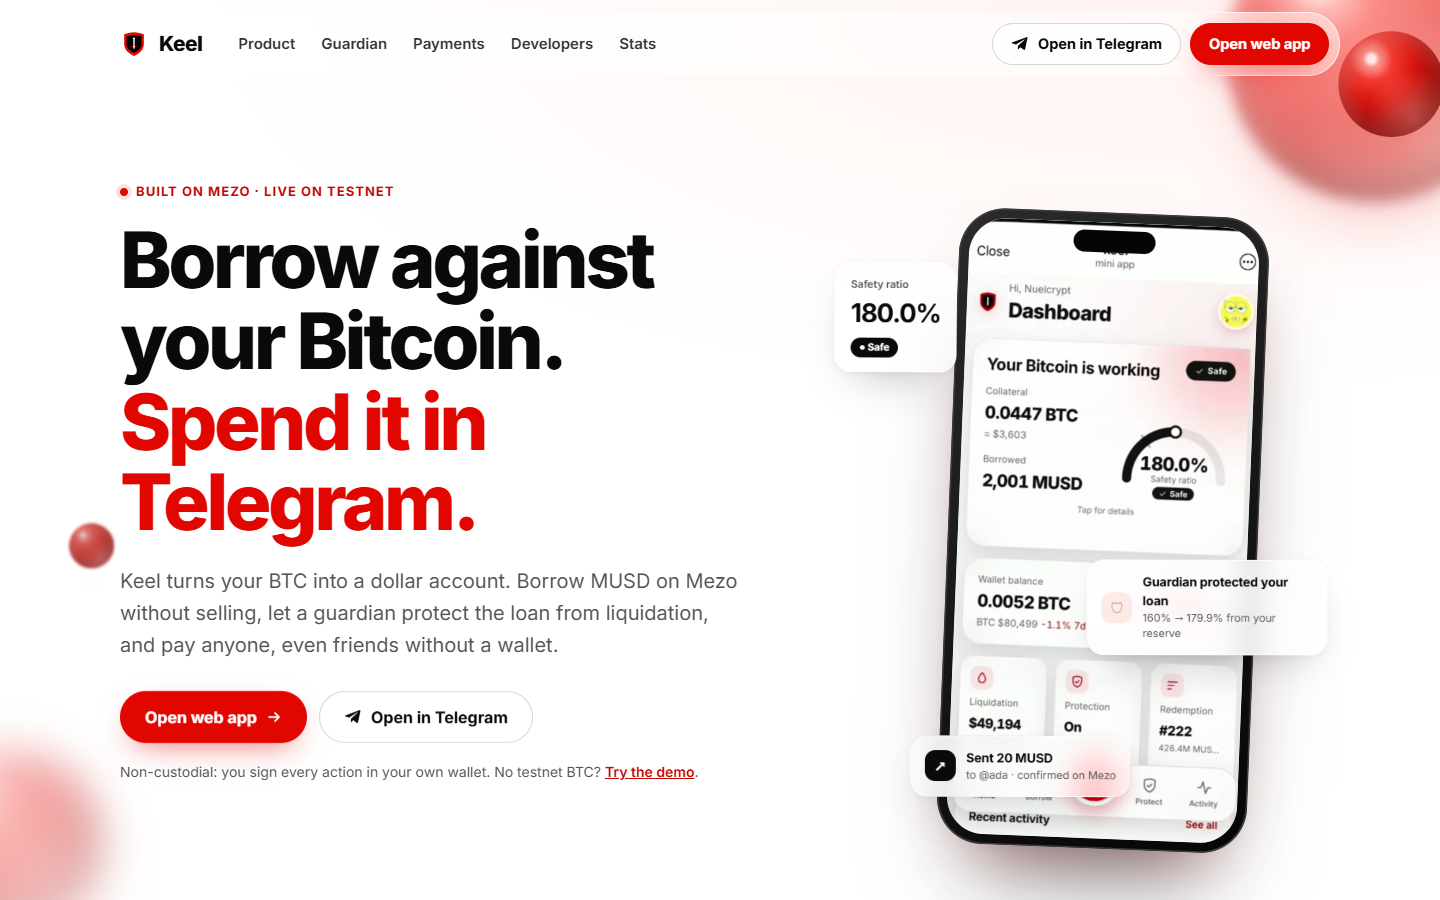
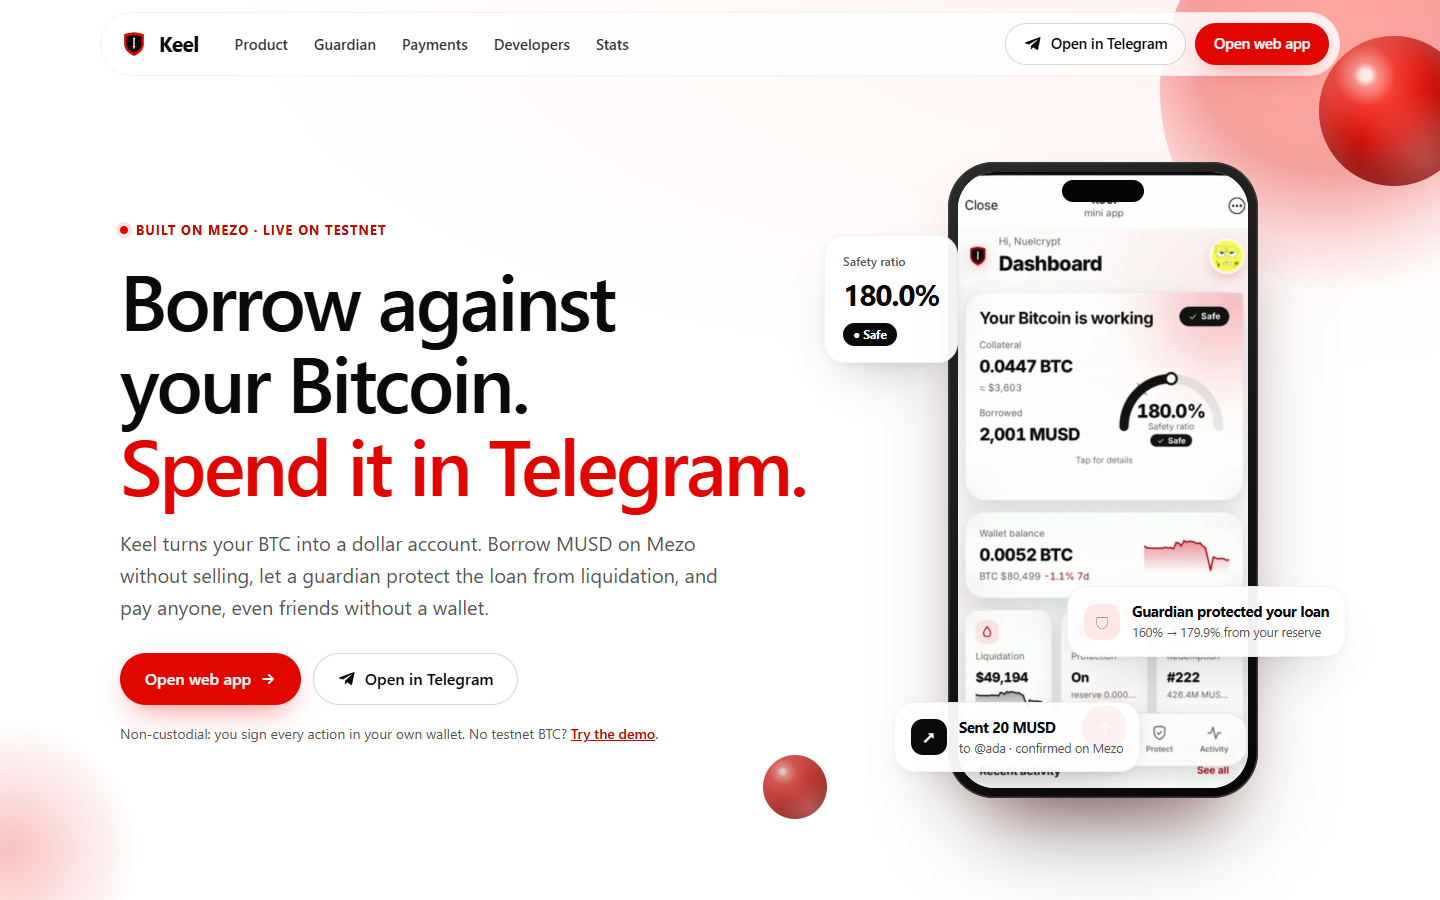
Landing: content-visibility for below-the-fold sections (scroll triggers re-measure as sections render); Onest credit in NOTICE

diff --git a/miniapp/src/landing/landing.css b/miniapp/src/landing/landing.css
@@ -326,6 +326,12 @@
 .built { display: inline-flex; align-items: center; gap: 8px; color: #fff; font-weight: 600; }
 .built img { border-radius: 5px; }
 
+/* ---------------------------------------------------------------- render only what's near the viewport
+   Below-the-fold sections skip style, layout and paint until they approach the screen (a large saving on phones).
+   "auto" remembers each section's real size once it has rendered; motion.ts re-measures scroll triggers when
+   sizes change. The pinned Guardian scene and the expanding card are left out on purpose. */
+.features, .payments, .mezo, .stats, .rail-sec, .cta, .foot { content-visibility: auto; contain-intrinsic-size: auto 900px; }
+
 /* ---------------------------------------------------------------- hero entrance: CSS, so it plays from the first paint */
 @keyframes lp-rise { from { opacity: 0; transform: translate3d(0, 34px, 0); } }
 /* the headline and lead stay visible from the first paint (they are the largest content); they only glide in */

diff --git a/miniapp/src/landing/motion.ts b/miniapp/src/landing/motion.ts
@@ -158,8 +158,22 @@ export function initMotion(root: HTMLElement): () => void {
     })
   }
 
-  // images and fonts change heights: re-measure pinned and scrubbed sections once they're in
+  // images, fonts and content-visibility (sections render as they approach) change heights: re-measure
+  // pinned and scrubbed sections whenever the page's height settles on a new value
   const refresh = () => ScrollTrigger.refresh()
+  let lastH = root.scrollHeight
+  let rt: ReturnType<typeof setTimeout> | undefined
+  const ro = new ResizeObserver(() => {
+    if (Math.abs(root.scrollHeight - lastH) < 4) return
+    lastH = root.scrollHeight
+    clearTimeout(rt)
+    rt = setTimeout(refresh, 250)
+  })
+  ro.observe(root)
+  off.push(() => {
+    ro.disconnect()
+    clearTimeout(rt)
+  })
   on(window, "load", refresh)
   void document.fonts?.ready.then(refresh)
 

diff --git a/NOTICE.md b/NOTICE.md
@@ -5,6 +5,12 @@ Everything under `contracts/contracts/` except `keel/` and `contracts/test/` (te
 vendored unmodified so Keel's integration tests run against the real protocol. Keel's own contracts live in
 `contracts/contracts/keel/` and are also GPL-3.0.
 
+## Fonts
+
+`miniapp/public/fonts/onest-latin.woff2` is **Onest** (latin subset) by Dmitri Voloshin / Onest Project, licensed under
+the SIL Open Font License 1.1 (https://openfontlicense.org), as distributed by Google Fonts. It is used unmodified on
+the landing page.
+
 ## Wallet logos
 
 `miniapp/public/wallets/` holds the official icons of MetaMask, Trust Wallet, Rainbow, Base (formerly Coinbase
